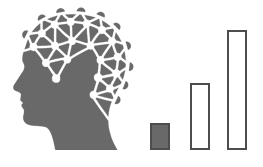
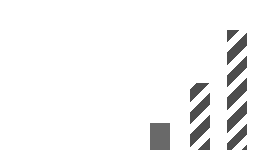
replaced reception images
Former-commit-id: 6d211a73fc90156ef0e2cf28ad39f2cce5178d3e

diff --git a/src/intro.cpp b/src/intro.cpp
@@ -105,13 +105,16 @@ void Intro::draw(){
     ofTranslate(0,0,-1);
     if (pauseScreen) {
         float offset = 0.25;
+        ofSetColor(255);
         akzidenzB.drawString("PAUSED", transX + imgW * 0.09, transY + imgH * offset);
-        helpButton.draw(transX + imgW * 0.09, transY + imgH * offset + 40);
         ofSetColor(128);
-        akzidenz.drawString("USE EEG:  ", transX + imgW * 0.09, transY + imgH * offset + 80);
-        settingsButton.draw(transX + imgW * 0.09 + akzidenz.stringWidth("USE EEG:X"), transY + imgH * offset + 80);
-        restartButton.draw(transX + imgW * 0.09, transY + imgH * offset + 120);
-        quitButton.draw(transX + imgW * 0.09, transY + imgH * offset + 160);
+        akzidenz.drawString("PRESS ESCAPE KEY TO RESUME", transX + imgW * 0.09, transY + imgH * offset + 40);
+        helpButton.draw(transX + imgW * 0.09, transY + imgH * offset + 80);
+        ofSetColor(128);
+        akzidenz.drawString("USE EEG:  ", transX + imgW * 0.09, transY + imgH * offset + 120);
+        settingsButton.draw(transX + imgW * 0.09 + akzidenz.stringWidth("USE EEG:X"), transY + imgH * offset + 120);
+        restartButton.draw(transX + imgW * 0.09, transY + imgH * offset + 160);
+        quitButton.draw(transX + imgW * 0.09, transY + imgH * offset + 200);
     } else {
         float offset = 1.25;
         startButton.draw(transX + imgW * 0.09, transY + imgH * offset);

diff --git a/src/tunnel.cpp b/src/tunnel.cpp
@@ -18,11 +18,11 @@ void Tunnel::setup(){
     
     camera.setup();
     camTargSet = false;
-    //camera.speed =  0.8f;
-    camera.speed =  1.0f;
+    camera.speed =  0.75f;
+    //camera.speed =  1.0f;
     camera.sensitivityX = 0.05f;
     camera.sensitivityY = 0.05f;
-    camera.accel = 0.05f;
+    camera.accel = 0.02f;
     camera.disableMove();
     camera.disableStrafe();
     
@@ -45,17 +45,17 @@ void Tunnel::update(){
     //hallModel.update();
     //hallMesh = hallModel.getCurrentAnimatedMesh(0);
     
-    //*
+    /*
     float accel = 0.05 * (60/ofGetFrameRate());
     camera.accel = ofClamp(accel, 0.05, 0.2);
     //*/
     
-    //*
+    /*
     float camSpeed = 1.0f * (60/ofGetFrameRate());
     camera.speed = ofClamp(camSpeed,1.0,2.0);
     //*/
     
-    ///*
+    /*
     float sensitivity = 0.05f * (60/ofGetFrameRate());
     sensitivity = ofClamp(sensitivity, 0.05, 0.2);
     camera.sensitivityX = sensitivity;

diff --git a/src/eegReader.cpp b/src/eegReader.cpp
@@ -248,6 +248,8 @@ void EEGreader::blinkListener(float &param)
 //--------------------------------------------------------------
 void EEGreader::free(){
     thinkGear.freeConnection();
+    thinkGear.reset();
+    reset();
     initialized = false;
     //ofRemoveListener(thinkGear.blinkChangeEvent, this, &EEGreader::blinkListener);
 }
@@ -256,7 +258,7 @@ void EEGreader::free(){
 void EEGreader::restart(){
     thinkGear.freeConnection();
     //thinkGear = ofxThinkGear();
-    //reset();
+    reset();
     thinkGear.reset();
     setup();
     //thinkGear.setup();

diff --git a/src/controller.cpp b/src/controller.cpp
@@ -127,7 +127,8 @@ void controller::update(){
                 sound.fadeDown();
             }
             if (sound.volume <= 0) {
-                sound.newFile("audio/3.aiff");
+                //sound.newFile("audio/3.aiff"); // "unfinished journey"
+                sound.newFile("audio/1.aiff");
             }
             playerBranch1.pause(isPaused);
             playerBranch1.update();
